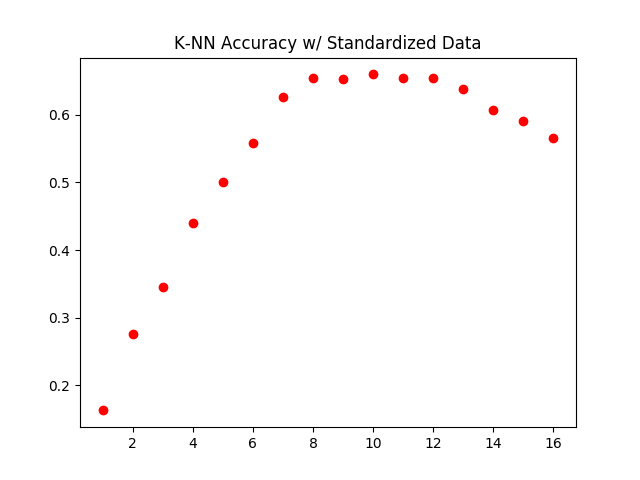
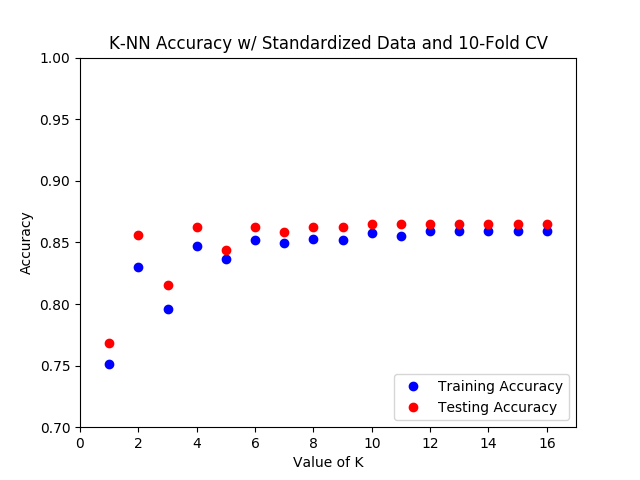
Added KNN

diff --git a/knn_model.py b/knn_model.py
@@ -1,14 +1,17 @@
-# This model first standardizes and normalizes the data and then
-# uses PCA to select the top XX features and then uses XX-NN to
+# This model first standardizes the data and then
+# then uses K-NN with K ranging from
 # determine if an album will be a hit or not
-
 import pandas as pd
 import numpy as np
 from scipy import stats
+import matplotlib
+matplotlib.use('agg')
+from sklearn.metrics import precision_score
 import matplotlib.pyplot as plt
 from sklearn.neighbors import KNeighborsClassifier
 from sklearn.tree import DecisionTreeClassifier
 from sklearn.naive_bayes import GaussianNB
+from sklearn.model_selection import cross_val_score
 
 HIT_ALBUM_RANK = 25
 
@@ -39,57 +42,73 @@ y_train = np.array(train_df.loc[:, train_df.columns[-1]])
 x_test = np.array(test_df.loc[:, test_df.columns[:-1]])
 y_test = np.array(test_df.loc[:, test_df.columns[-1]])
 
-pre_dict = {0: 'Normalization', 1: 'Standardization'}
-sel_pre = [0, 1]
+# z_train is the standardized training data
+z_train = stats.zscore(x_train)
+# Use the min and max of training data to standardize testing data
+mean_train = np.mean(x_train, axis=0)
+std_train = np.std(x_train, axis=0)
+# z_test is the standardized testing data
+z_test = (x_test - mean_train) / std_train
 
-# Normalizing and Standardizing the data
-for i in sel_pre:
-    if pre_dict[i] == 'Normalization':
-        norm_train = (x_train - x_train.min(axis=0)) / (x_train.max(axis=0) -
-                                                        x_train.min(axis=0))
-        # Use the min and max of training data to normalize testing data
-        min_train = np.min(x_train, axis=0)
-        max_train = np.max(x_train, axis=0)
-        norm_test = (x_test - min_train) / (max_train - min_train)
-    elif pre_dict[i] == 'Standardization':
-        z_train = stats.zscore(x_train)
-        # Use the min and max of training data to standardize testing data
-        mean_train = np.mean(x_train, axis=0)
-        std_train = np.std(x_train, axis=0)
-        z_test = (x_test - mean_train) / std_train
+# Transforms the labels based on Hit Album Rank Criteria
+for j in range(len(y_train)):
+    if (y_train[j] > HIT_ALBUM_RANK):
+        y_train[j] = 0
+    else:
+        y_train[j] = 1
+for j in range(len(y_test)):
+    if (y_test[j] > HIT_ALBUM_RANK):
+        y_test[j] = 0
+    else:
+        y_test[j] = 1
 
-for i in sel_pre:
-    acc = {}
+# A dictionary of k values and accuracies
+acc = {}
+cv_acc = {}
 
-    for neighbors in range(16):
+# Iterates through the diffrent K values = [1,16]
+for neighbors in range(1, 17):
 
-        clf = KNeighborsClassifier(n_neighbors=(neighbors + 1))
+    print(neighbors)
 
-        clf = clf.fit(x_train, y_train)
-        y_pred = clf.predict(x_test)
-        for j in range(len(y_pred)):
-            if (y_pred[j] > HIT_ALBUM_RANK):
-                y_pred[j] = 0
-            else:
-                y_pred[j] = 1
+    clf = KNeighborsClassifier(n_neighbors=(neighbors))
 
-        for j in range(len(y_test)):
-            if (y_test[j] > HIT_ALBUM_RANK):
-                y_test[j] = 0
-            else:
-                y_test[j] = 1
-        acc[str(neighbors + 1)] = float(sum(y_pred == y_test) / len(y_test))
-        plt.plot((neighbors + 1), (float(sum(y_pred == y_test) / len(y_test))),
-                 'ro')
+    cv_score = cross_val_score(clf, z_train, y_train, cv=4, scoring='accuracy').mean()
+    cv_acc[str(neighbors)] = cv_score
+    plt.plot((neighbors), (cv_acc[str(neighbors)]), 'bo')
 
-    if i == 0:
-        plt.title("K-NN Accuracy w/ Normalized Data")
-        plt.savefig('output/KNN_Accuracy_with_Normalized_data.png')
+    # Calculates the testing accuracy
+    clf = clf.fit(z_train, y_train)
+    y_pred = clf.predict(z_test)
+    acc[str(neighbors)] = float(sum(y_pred == y_test) / len(y_test))
+    plt.plot((neighbors), (float(sum(y_pred == y_test) / len(y_test))), 'ro')
 
-    elif i == 1:
-        plt.title("K-NN Accuracy w/ Standardized Data")
-        plt.savefig('output/KNN_Accuracy_with_Standardized_data.png')
+    # Used to see how many times the model predicts 0
+    num_0 = 0
+    for i in y_pred:
+        if i == 0:
+            num_0+=1
+    print(str(neighbors) + "-NN has predicted " + str(num_0) +" entries as 0 (not a hit)")
+    print(precision_score(y_test,y_pred))
 
-    plt.clf()
+plt.title("K-NN Accuracy w/ Standardized Data and 10-Fold CV")
+plt.axis([0,17, .7,1])
+ax = plt.gca()
+ax.set_autoscale_on(False)
+plt.ylabel("Accuracy")
+plt.xlabel("Value of K")
+plt.legend(['Training Accuracy', 'Testing Accuracy'], loc='lower right')
+plt.savefig('output/KNN_Accuracy_with_Standardized_data.png')
 
-    # print('Accuracy = {}'.format(max(acc)))
+
+v = list(acc.values())
+k = list(acc.keys())
+print("The value of K that provides the highest accuracy is " +
+      k[v.index(max(v))] + " with an accuracy of " +
+      str(round(acc[str(k[v.index(max(v))])] * 100, 5)) + "%")
+
+print()
+print("k value | train acc | test acc")
+for test_acc in acc:
+    print("{0}       | {1}    | {2}".format(test_acc, round(cv_acc[test_acc],5), round(acc[test_acc],5)))
+
